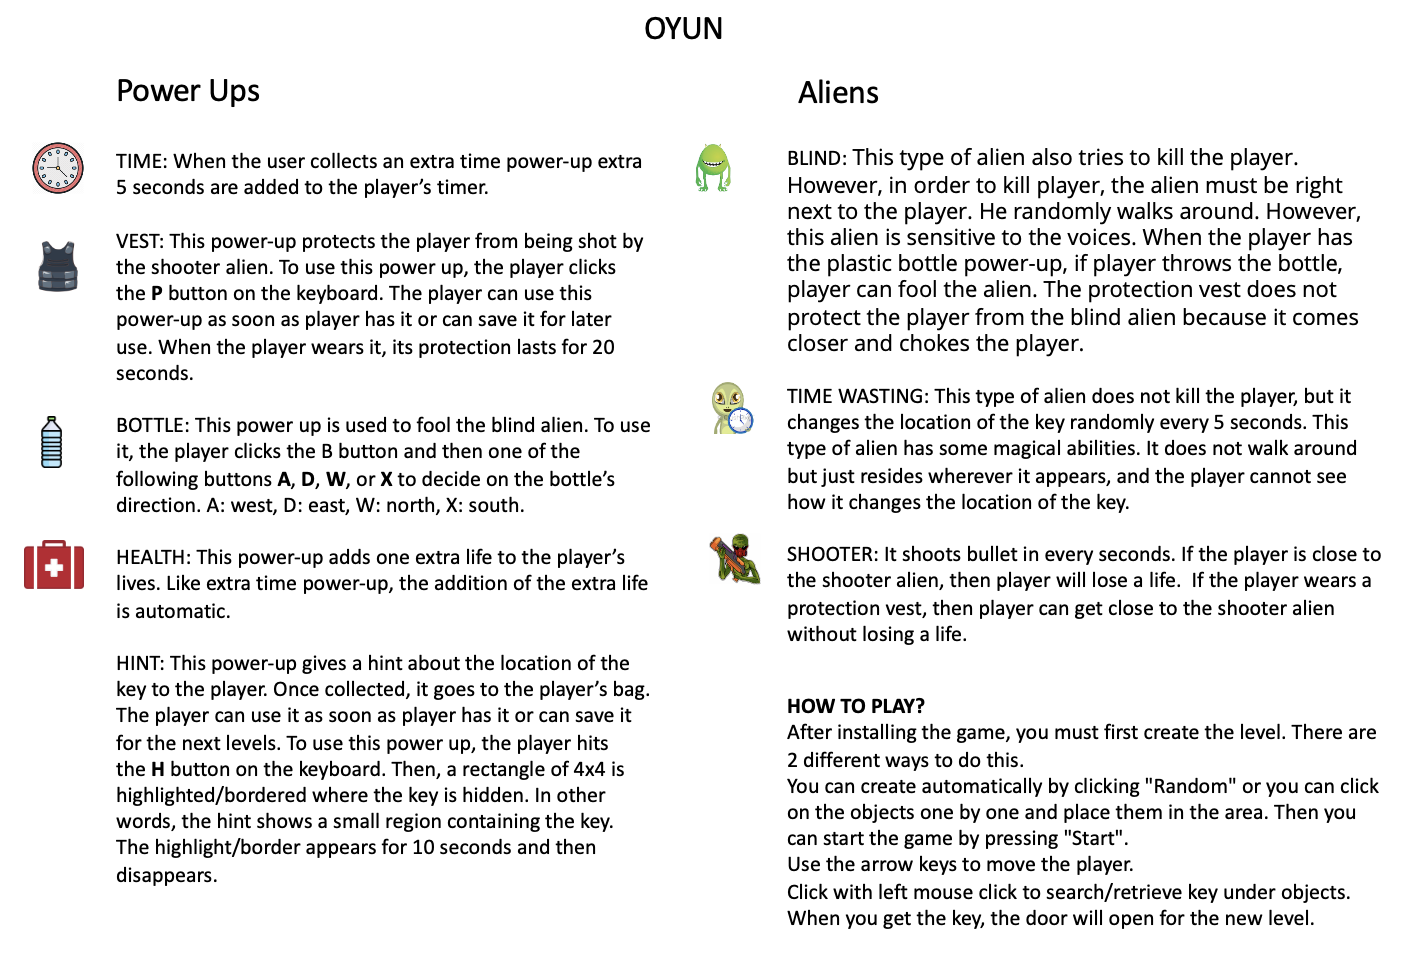
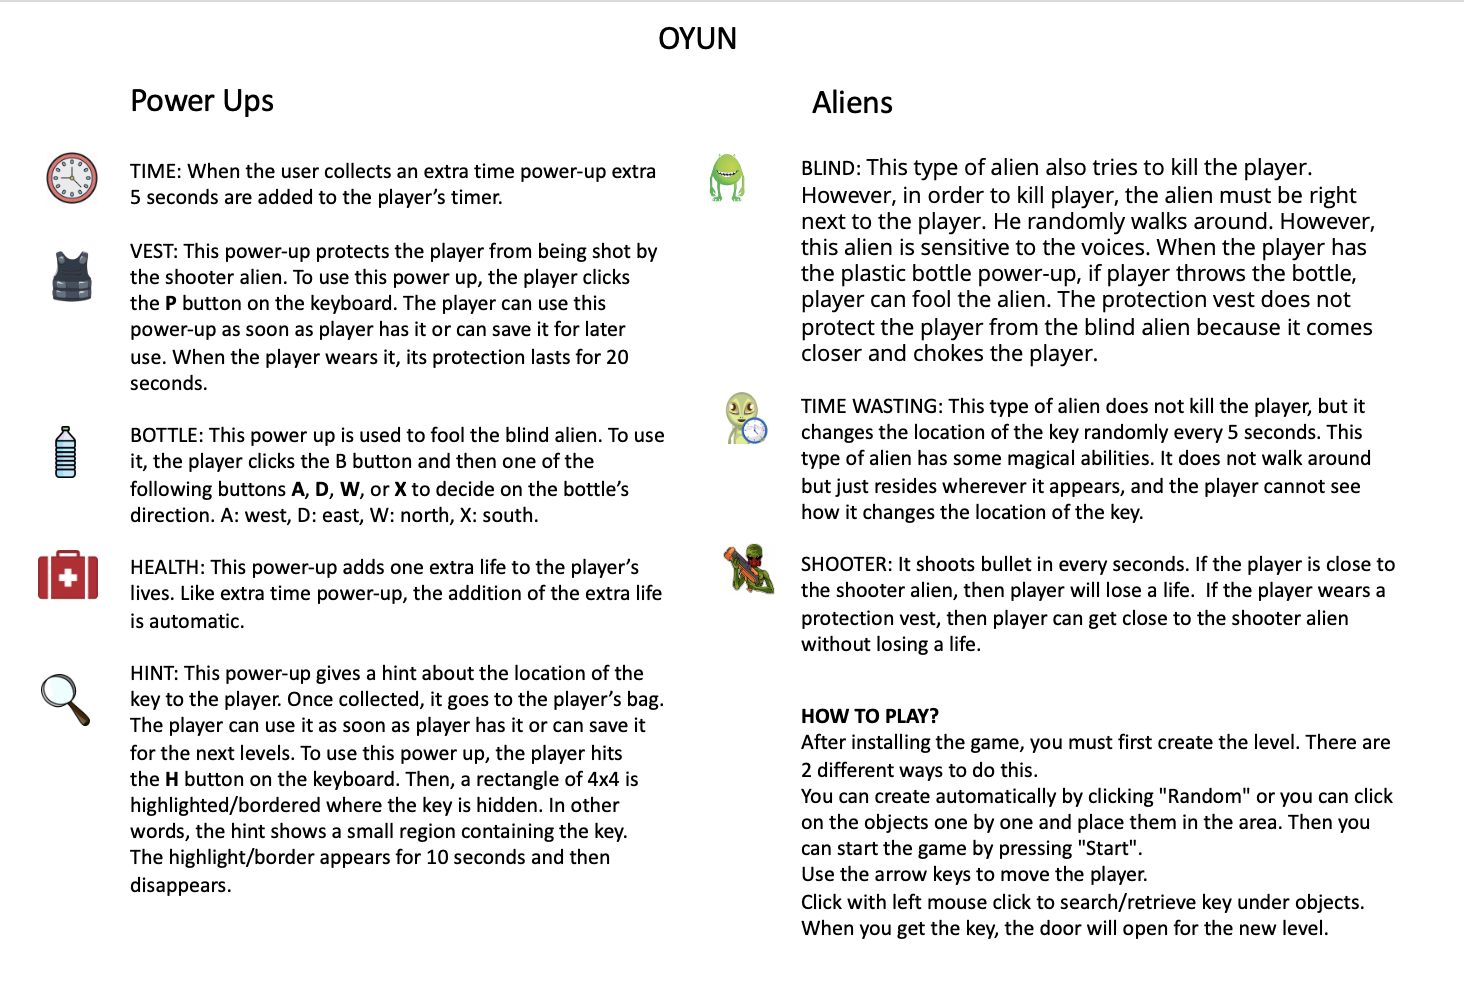
help screen size and png editted

diff --git a/src/main/java/com/gurup/ui/ScreenMaker.java b/src/main/java/com/gurup/ui/ScreenMaker.java
@@ -55,7 +55,7 @@ public class ScreenMaker {
         HelpScreen helpScreen = new HelpScreen();
         helpScreen.setTitle("Help");
 
-        helpScreen.setBounds(10, 10, 1000, 800);
+        helpScreen.setBounds(10, 10, 1000, 900);
         helpScreen.setDefaultCloseOperation(JFrame.EXIT_ON_CLOSE);
 
         helpScreen.setResizable(false);
